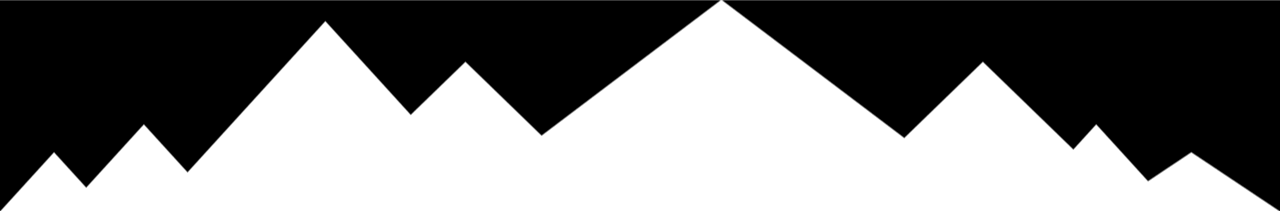
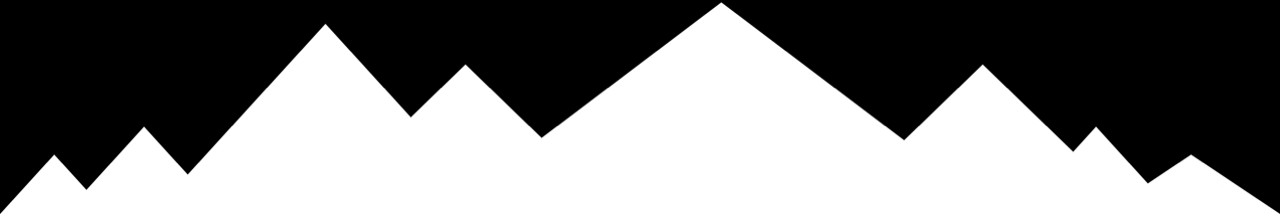
fix footer outline alignment

diff --git a/style.css b/style.css
@@ -133,7 +133,6 @@ body {
 .footer__outline {
   width: 100vw;
   position: relative;
-  bottom: 0.01rem;
   height: 10rem;
 }
 .impressum {

diff --git a/sass/layout/_footer.scss b/sass/layout/_footer.scss
@@ -7,7 +7,6 @@
   &__outline {
     width: 100vw;
     position: relative;
-    bottom: 0.01rem;
     height: 10rem;
   }
 
